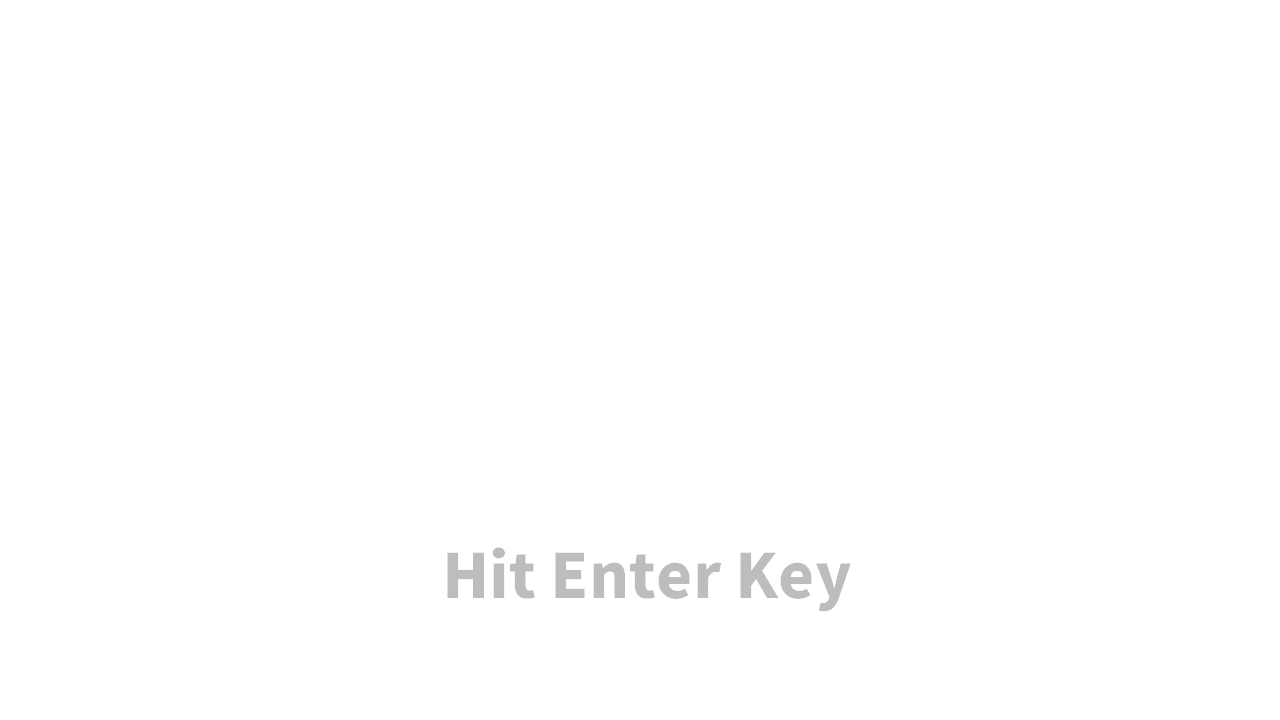
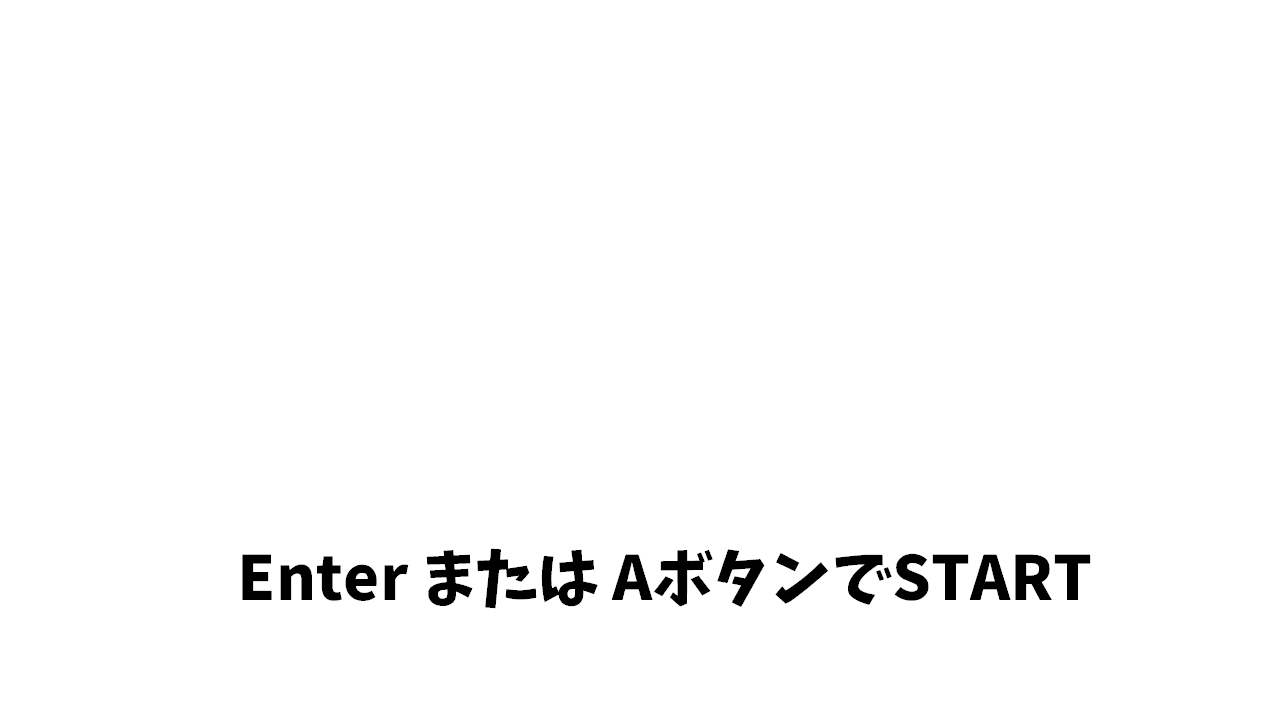
tttt

Changed region(s): [[0.1875, 0.7639, 0.875, 0.8556]]

diff --git a/DirectXGame/main.cpp b/DirectXGame/main.cpp
@@ -5,6 +5,7 @@
 #include "PauseMenu.h"
 #include "GameClearScene.h"
 #include "GameOverScene.h"
+#include "HowToPlayScene.h"
 #include <fstream> // ▼▼▼ 追加 ▼▼▼
 #include <string>  // ▼▼▼ 追加 ▼▼▼
 #include <Windows.h>
@@ -39,7 +40,7 @@ void SaveBestScore(int score) {
 }
 
 // main.cppの修正
-enum class Scene { Title, Select, Game, GameOver, Pause, GameClear };
+enum class Scene { Title, Select, HowToPlay, Game, GameOver, Pause, GameClear };
 
 Scene scene = Scene::Title;
 
@@ -70,6 +71,7 @@ int WINAPI WinMain(_In_ HINSTANCE, _In_opt_ HINSTANCE, _In_ LPSTR, _In_ int) {
 	SelectScene* selectScene = nullptr;
 	GameScene* gameScnce = nullptr;
 	GameOverScene* gameOverScene = nullptr;
+	HowToPlayScene* howToPlayScene = nullptr;
 	PauseMenu* pauseMenu = nullptr;
 	GameClearScene* gameClearScene = nullptr;
 
@@ -86,6 +88,9 @@ int WINAPI WinMain(_In_ HINSTANCE, _In_opt_ HINSTANCE, _In_ LPSTR, _In_ int) {
 
 	gameOverScene = new GameOverScene();
 	//gameOverScene->Initialize();
+
+	howToPlayScene = new HowToPlayScene();
+	howToPlayScene->Initialize();
 
 	pauseMenu = new PauseMenu();
 	pauseMenu->Initialize();
@@ -126,12 +131,32 @@ int WINAPI WinMain(_In_ HINSTANCE, _In_opt_ HINSTANCE, _In_ LPSTR, _In_ int) {
 			selectScene->Update();
 			selectScene->Draw();
 			if (selectScene->IsGameStart()) {
-				// ▼▼▼ BGMの切り替え ▼▼▼
-				Audio::GetInstance()->StopWave(titleBgmVoiceHandle);                      // タイトルBGMを停止
-				gameBgmVoiceHandle = Audio::GetInstance()->PlayWave(gameBgmHandle, true); // ゲームBGMを開始
+				// ▼▼▼ ゲームシーンへの移行を、HowToPlayシーンへの移行に変更 ▼▼▼
+				// BGMの切り替えは次のシーンで行うため、ここでは何もしない
+				scene = Scene::HowToPlay;
+				// gameScnce->Initialize() もここでは呼ばない
+			}
+			break;
+
+		// ▼▼▼ HowToPlayシーンのケースを丸ごと追加 ▼▼▼
+		case Scene::HowToPlay:
+			// タイトルBGMを継続
+			if (!Audio::GetInstance()->IsPlaying(titleBgmVoiceHandle)) {
+				titleBgmVoiceHandle = Audio::GetInstance()->PlayWave(titleBgmHandle, true);
+			}
+
+			howToPlayScene->Update();
+			howToPlayScene->Draw();
+
+			// 操作説明シーンが終わったらゲームシーンへ
+			if (howToPlayScene->IsFinished()) {
+				// BGMの切り替え
+				Audio::GetInstance()->StopWave(titleBgmVoiceHandle);
+				gameBgmVoiceHandle = Audio::GetInstance()->PlayWave(gameBgmHandle, true);
 
 				scene = Scene::Game;
-				gameScnce->Initialize();
+				gameScnce->Initialize();      // ゲームシーンを初期化して開始
+				howToPlayScene->Initialize(); // 次回のためにHowToPlayシーンもリセット
 			}
 			break;
 
@@ -203,6 +228,8 @@ int WINAPI WinMain(_In_ HINSTANCE, _In_opt_ HINSTANCE, _In_ LPSTR, _In_ int) {
 	titleScnce = nullptr;
 	delete selectScene;
 	selectScene = nullptr;
+	delete howToPlayScene;    // 追加
+	howToPlayScene = nullptr; // 追加
 	delete gameOverScene;
 	gameOverScene = nullptr;
 	delete pauseMenu;

diff --git a/DirectXGame/SelectScene.cpp b/DirectXGame/SelectScene.cpp
@@ -10,6 +10,7 @@ SelectScene::~SelectScene() {
 	delete selectSprite_2;
 	delete selectSprite_3;
 	delete arrowSprite_;
+	delete aButtonSprite_;
 }
 
 void SelectScene::Initialize() {
@@ -40,12 +41,23 @@ void SelectScene::Initialize() {
 	selectSprite_3 = KamataEngine::Sprite::Create(textureHandle_3, {0, 0});
 	selectSprite_3->SetPosition({0, 0}); // 画面中央に配置
 
-	KeytextureHandle_ = KamataEngine::TextureManager::Load("key.png");
+    KeytextureHandle_ = KamataEngine::TextureManager::Load("key.png");
 	KeyselectSprite_ = KamataEngine::Sprite::Create(KeytextureHandle_, {0, 0});
-	KeyselectSprite_->SetPosition({0, 0}); // 画面中央に配置
 	KeyselectSprite_->SetAnchorPoint({0.5f, 0.5f});
-	// 画面下部の中央に配置
-	KeyselectSprite_->SetPosition({1280.0f / 2.0f, 720.0f - 100.0f});
+
+	// ▼▼▼ ここを調整します ▼▼▼
+	// KeyselectSprite_のX座標を調整して、全体の配置の基準にする
+	KeyselectSprite_->SetPosition({1280.0f / 2.0f - 100.0f, 720.0f - 100.0f}); // 例えば、-100.0fに大きくずらしてみる
+
+	aButtonTextureHandle_ = KamataEngine::TextureManager::Load("a_button.png");
+	aButtonSprite_ = KamataEngine::Sprite::Create(aButtonTextureHandle_, {0, 0});
+	aButtonSprite_->SetAnchorPoint({0.5f, 0.5f});
+
+	// KeyselectSprite_の右隣に配置
+	Vector2 keySpritePos = KeyselectSprite_->GetPosition();
+	// ▼▼▼ ここを調整します ▼▼▼
+	// aButtonSprite_のX座標をKeyselectSprite_のX座標からさらに右にずらす
+	aButtonSprite_->SetPosition({keySpritePos.x + 300.0f, keySpritePos.y}); // 例えば、+100.0fに大きくずらしてみる
 
 	// 矢印スプライトの作成
 	arrowTextureHandle_ = KamataEngine::TextureManager::Load("select/Sentaku.png");
@@ -231,6 +243,10 @@ void SelectScene::Draw() {
 	// キースプライトを描画
 	if (KeyselectSprite_) {
 		KeyselectSprite_->Draw();
+	}
+
+	if (aButtonSprite_) {
+		aButtonSprite_->Draw();
 	}
 
 	// 2D描画終了

diff --git a/DirectXGame/HowToPlayScene.cpp b/DirectXGame/HowToPlayScene.cpp
@@ -1,0 +1,50 @@
+#include "HowToPlayScene.h"
+
+HowToPlayScene::~HowToPlayScene() { delete howToPlaySprite_; }
+
+void HowToPlayScene::Initialize() {
+	dxCommon_ = DirectXCommon::GetInstance();
+	input_ = Input::GetInstance();
+	isFinished_ = false; // シーン開始時に必ずリセット
+
+	// 操作説明の画像を読み込む（"how_to_play.png"というファイル名は仮です）
+	textureHandle_ = TextureManager::Load("how_to_play/how_to_play.png");
+	howToPlaySprite_ = Sprite::Create(textureHandle_, {0, 0});
+	howToPlaySprite_->SetPosition({0, 0}); // 全画面表示を想定
+
+	// 決定音を読み込む
+	sfxConfirmHandle_ = Audio::GetInstance()->LoadWave("audio/confirm.wav");
+}
+
+void HowToPlayScene::Update() {
+	// コントローラーの状態を取得
+	XINPUT_STATE xInputState = {};
+	XINPUT_STATE xInputStatePrev = {};
+	bool isControllerConnected = input_->GetJoystickState(0, xInputState) && input_->GetJoystickStatePrevious(0, xInputStatePrev);
+
+	// Aボタンが押された瞬間かどうかの判定
+	bool isAButtonTriggered = false;
+	if (isControllerConnected) {
+		if ((xInputState.Gamepad.wButtons & XINPUT_GAMEPAD_A) && !(xInputStatePrev.Gamepad.wButtons & XINPUT_GAMEPAD_A)) {
+			isAButtonTriggered = true;
+		}
+	}
+
+	// スペースキーまたはAボタンが押されたらシーンを終了
+	if (input_->TriggerKey(DIK_SPACE) || isAButtonTriggered) {
+		Audio::GetInstance()->PlayWave(sfxConfirmHandle_);
+		isFinished_ = true;
+	}
+}
+
+void HowToPlayScene::Draw() {
+	ID3D12GraphicsCommandList* commandList = dxCommon_->GetCommandList();
+	Sprite::PreDraw(commandList);
+
+	// 操作説明のスプライトを描画
+	if (howToPlaySprite_) {
+		howToPlaySprite_->Draw();
+	}
+
+	Sprite::PostDraw();
+}

diff --git a/DirectXGame/HowToPlayScene.h b/DirectXGame/HowToPlayScene.h
@@ -1,0 +1,45 @@
+#pragma once
+#include "KamataEngine.h"
+
+using namespace KamataEngine;
+
+/// <summary>
+/// 操作説明シーン
+/// </summary>
+class HowToPlayScene {
+public:
+	~HowToPlayScene();
+
+	/// <summary>
+	/// 初期化
+	/// </summary>
+	void Initialize();
+
+	/// <summary>
+	/// 毎フレーム処理
+	/// </summary>
+	void Update();
+
+	/// <summary>
+	/// 描画
+	/// </summary>
+	void Draw();
+
+	/// <summary>
+	/// シーンが終了したかを取得
+	/// </summary>
+	bool IsFinished() const { return isFinished_; }
+
+private:
+	DirectXCommon* dxCommon_ = nullptr;
+	Input* input_ = nullptr;
+
+	// 操作説明用のスプライト
+	Sprite* howToPlaySprite_ = nullptr;
+	uint32_t textureHandle_ = 0;
+
+	// 決定音
+	uint32_t sfxConfirmHandle_ = 0;
+
+	bool isFinished_ = false;
+};

diff --git a/DirectXGame/SelectScene.h b/DirectXGame/SelectScene.h
@@ -56,6 +56,7 @@ private:
 
 	Sprite* KeyselectSprite_ = nullptr;
 	Sprite* arrowSprite_ = nullptr; // 矢印スプライト
+	Sprite* aButtonSprite_ = nullptr;
 
 	uint32_t textureHandle_ = 0;
 	uint32_t textureHandle_1 = 0;
@@ -63,6 +64,7 @@ private:
 	uint32_t textureHandle_3 = 0;
 	uint32_t KeytextureHandle_ = 0;
 	uint32_t arrowTextureHandle_ = 0; // 矢印テクスチャハンドル
+	uint32_t aButtonTextureHandle_ = 0;
 
 	// 矢印の移動
 	int currentSelectIndex_ = 0;
